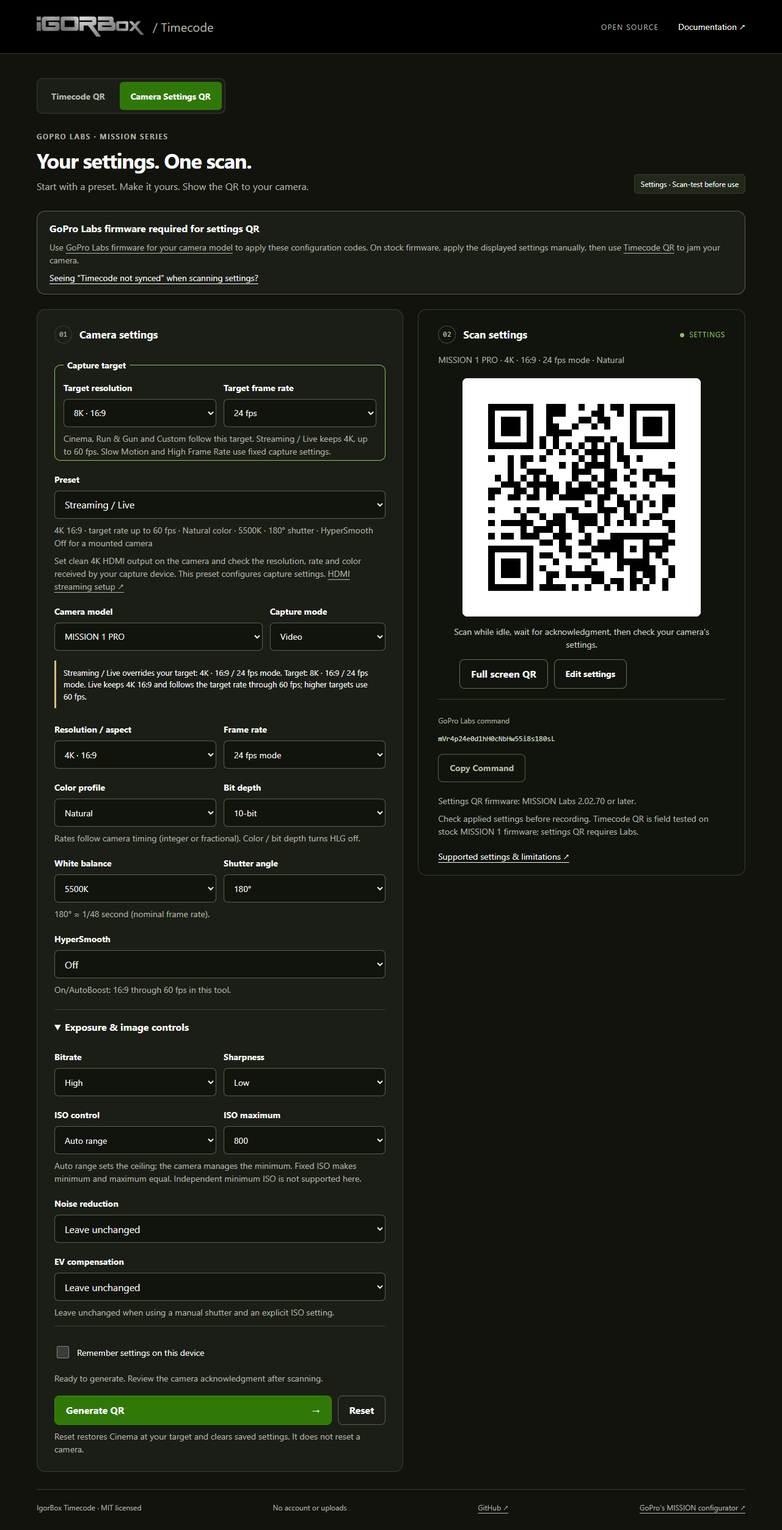
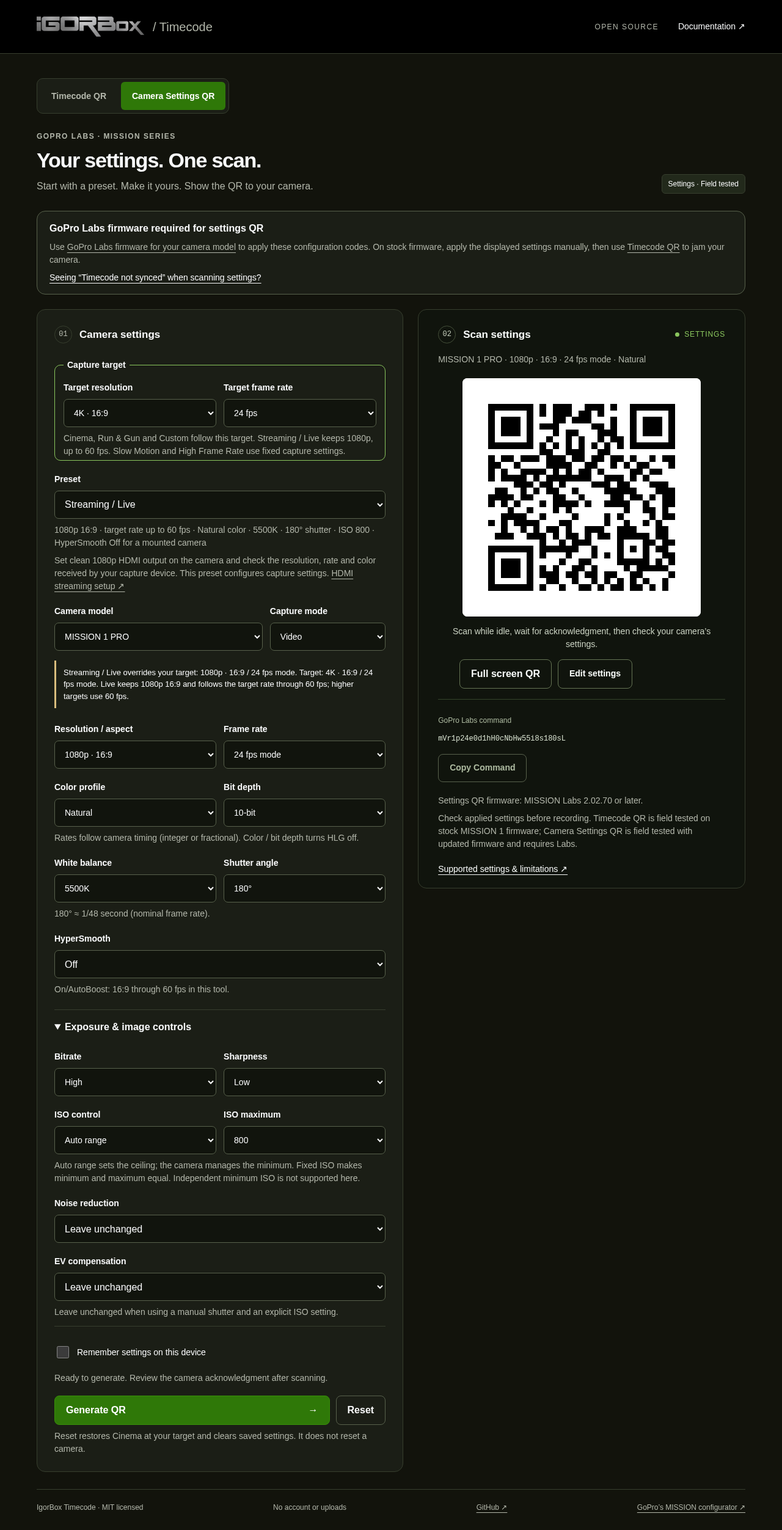
update defaults

diff --git a/public/guide.html b/public/guide.html
@@ -88,18 +88,18 @@
   <p><a href="./settings.html">Open Camera Settings QR</a> to configure a MISSION 1, MISSION 1 PRO or MISSION 1 PRO ILS. This is a separate tool: it changes capture settings, while Timecode QR sets the clock. Configure capture first, then jam timecode.</p>
   <p><strong>GoPro Labs firmware is required for settings QR.</strong> GoPro documents camera configuration QR commands as a <a href="https://gopro.com/en/us/info/gopro-labs">Labs firmware feature</a>. Use the <a href="https://gopro.github.io/labs/">download for your exact camera model</a>. On stock MISSION 1 firmware, apply the displayed capture settings manually, then use the field-tested Timecode QR to jam.</p>
   <ol>
-    <li>Set your <strong>Capture target</strong> at the top and choose your exact camera model. The default is <strong>8K 16:9 / 24 fps</strong>. Production / Cinema, Run &amp; Gun and Custom follow this target, so choosing 4K30 makes all three use 4K30.</li>
-    <li>Choose a starter preset. Streaming / Live keeps 4K and follows the target rate through 60 fps; higher targets use 60 fps. Slow Motion keeps 4K60 and High Frame Rate keeps 4K120. A visible note identifies capture overrides. Custom starts with the target and leaves other settings unchanged on-camera. All defaults use 16:9; Open Gate remains an editable option on supported models.</li>
+    <li>Set your <strong>Capture target</strong> at the top and choose your exact camera model. The default is <strong>4K 16:9 / 24 fps</strong>. Production / Cinema, Run &amp; Gun and Custom follow this target, so choosing 4K30 makes all three use 4K30.</li>
+    <li>Choose a starter preset. Streaming / Live keeps 1080p and follows the target rate through 60 fps; higher targets use 60 fps. Slow Motion keeps 4K60 and High Frame Rate keeps 4K120. A visible note identifies capture overrides. Custom starts with the target and leaves other settings unchanged on-camera. All defaults use 16:9; Open Gate remains an editable option on supported models.</li>
     <li>Edit any field. “Leave unchanged” omits it from the command. Fields stay editable after selecting a preset; your first edit changes the preset label to Custom. Unsupported resolution/rate pairs block generation.</li>
-    <li>Use Exposure &amp; image controls for ISO, bitrate, sharpness, EV and noise reduction. Cinema, Run &amp; Gun, Slow Motion and High Frame Rate use GP-Log2; Streaming / Live uses Natural color. All five configured presets use 10-bit, high recording bitrate and low sharpness. Run &amp; Gun uses auto white balance; the other configured presets use 5500K.</li>
+    <li>Use Exposure &amp; image controls for ISO, bitrate, sharpness, EV and noise reduction. Cinema, Run &amp; Gun, Slow Motion and High Frame Rate use GP-Log2; Streaming / Live uses Natural color. All five configured presets use 10-bit, high recording bitrate and low sharpness. Cinema, Run &amp; Gun and Streaming / Live use 5500K, a 180° shutter and Auto ISO up to 800.</li>
     <li>Press Generate QR, show it to an idle camera, and check the applied settings on the camera. Full screen QR enlarges the view. Copy Command copies the exact text; on browsers without clipboard access it selects the text for manual copying. Editing any field clears the old QR.</li>
   </ol>
   <h3 id="streaming-live">Streaming / Live over HDMI</h3>
-  <p>This preset starts at <strong>4K 16:9 / your target rate, up to 60 fps</strong> (24 fps with the default target). It uses Natural color for a picture ready for live use, 10-bit, HLG Off, High recording bitrate, 5500K WB, 180° shutter, Auto ISO up to 800, Low sharpness and HyperSmooth Off for a mounted camera. EV and noise reduction are left unchanged. Adjust WB and exposure for the actual lighting; select GP-Log2 if your live setup applies an appropriate LUT.</p>
+  <p>This preset starts at <strong>1080p 16:9 / your target rate, up to 60 fps</strong> (24 fps with the default target). It uses Natural color for a picture ready for live use, 10-bit, HLG Off, High recording bitrate, 5500K WB, 180° shutter, Auto ISO up to 800, Low sharpness and HyperSmooth Off for a mounted camera. EV and noise reduction are left unchanged. Adjust WB and exposure for the actual lighting; select GP-Log2 if your live setup applies an appropriate LUT.</p>
   <ol>
-    <li>Choose your intended stream frame rate as the target. Streaming / Live overrides resolution to 4K and caps its starting rate at 60 fps, with a visible note if that differs from the target. All fields remain editable.</li>
+    <li>Choose your intended stream frame rate as the target. Streaming / Live overrides resolution to 1080p and caps its starting rate at 60 fps, with a visible note if that differs from the target. All fields remain editable.</li>
     <li>Apply the capture settings via QR on Labs firmware, or manually on stock firmware. Connect the camera to your HDMI capture device using compatible hardware. GoPro specifies <a href="https://gopro.com/en/us/shop/mounts-accessories/camera-media-mod/AGFMD-001.html">up to 4K60 output for the MISSION Media Mod</a>.</li>
-    <li>Select clean video output without camera overlays and 4K output in the camera’s output controls. Confirm the received resolution, exact frame rate, color and bit depth in your capture device or streaming software. Capture settings alone do not guarantee the HDMI signal format. High bitrate controls internal recording, not the stream encoder’s bitrate.</li>
+    <li>Select clean video output without camera overlays and 1080p output in the camera’s output controls. Confirm the received resolution, exact frame rate, color and bit depth in your capture device or streaming software. Capture settings alone do not guarantee the HDMI signal format. High bitrate controls internal recording, not the stream encoder’s bitrate.</li>
     <li>Set the stream encoder’s format and bitrate, provide power suitable for the session, and check camera auto-power-off settings. Test the complete chain for the intended duration and adjust audio/video delay in the streaming setup. A timecode jam does not align HDMI feed latency.</li>
   </ol>
   <p><strong>HDMI controls remain on-camera:</strong> the <a href="https://gopro.github.io/labs/">Labs support matrix</a> does not list HDMI display-setting support for MISSION, and the <a href="https://gopro.github.io/labs/control/tech/">HDMI command reference</a> lists HERO8–13. This preset therefore sends capture settings only. It does not enable clean HDMI output, change power-off settings, set an HDMI output format, or initiate a network stream. Successful HDMI operation with this preset still needs verification on your hardware.</p>
@@ -108,7 +108,7 @@
   <p><strong>Coverage:</strong> the app supports the documented regular resolution/rate pairs through 240 fps. HyperSmooth On/AutoBoost is offered for 16:9 modes through 60 fps; other stabilization combinations are outside this tool’s verified coverage, not necessarily camera limitations. ILS users must confirm a supported lens and its camera setup before enabling HyperSmooth. Run &amp; Gun starts with stabilization off on ILS. PRO and ILS share capture-rate definitions, with this separate lens check.</p>
   <p id="ils-lenses"><strong>ILS lens compatibility:</strong> the checkbox is only for MISSION 1 PRO ILS and confirms that your interchangeable lens is supported for HyperSmooth. It does not configure a lens profile. “Rectilinear” means straight lines remain straight rather than having a fisheye projection; “prime” means a fixed focal length rather than a zoom. GoPro’s current <a href="https://investor.gopro.com/press-releases/press-release-details/2026/GoPro-Launches-MISSION-1-PRO-ILS-the-Worlds-Smallest-Most-Rugged-Compact-Cinema-Camera-with-Interchangeable-Lenses/default.aspx">ILS lens guidance, footnote 3</a> lists rectilinear MFT lenses from 6–500mm (tested up to 50mm, with performance beyond that varying) and five profiled fisheyes: Laowa 4mm f/2.8, 7Artisans 6mm f/2, 7Artisans 7.5mm f/2.8, Brightin Star 7.5mm f/2.8 and Meike 7.5mm f/2.8. Check the guidance and configure your lens on-camera before enabling stabilization.</p>
   <p><strong>Photo:</strong> switching to Photo exposes RAW output, white balance and EV only. Video controls are hidden and not emitted. Set photo resolution, shutter and ISO on the camera. Returning to Video restores the draft form and leaves the QR off.</p>
-  <p><strong>Firmware and scope:</strong> command research was checked on 11 September 2026 against GoPro’s <a href="https://gopro.github.io/labs/control/mission/">MISSION configurator</a>, <a href="https://gopro.github.io/labs/control/settings/">settings reference</a>, <a href="https://gopro.com/en/us/shop/buy-cameras/mission-1-series">model specifications</a> and <a href="https://gopro.github.io/labs/control/notes/">release notes</a>. Use MISSION Labs 2.02.70 or later, or ILS Labs 3.00.70 or later, for settings QR. The earlier successful stock-firmware shoot verified Timecode QR. On 11 September 2026, the owner also confirmed that the settings workflow works after a firmware update. The exact firmware build and individual presets tested were not supplied.</p>
+  <p><strong>Firmware and scope:</strong> command research was checked on 11 September 2026 against GoPro’s <a href="https://gopro.github.io/labs/control/mission/">MISSION configurator</a>, <a href="https://gopro.github.io/labs/control/settings/">settings reference</a>, <a href="https://gopro.com/en/us/shop/buy-cameras/mission-1-series">model specifications</a> and <a href="https://gopro.github.io/labs/control/notes/">release notes</a>. Use MISSION Labs 2.02.70 or later, or ILS Labs 3.00.70 or later, for settings QR. The earlier successful stock-firmware shoot verified Timecode QR. Camera Settings QR was field tested after a firmware update on 11 September 2026. The exact firmware build and individual presets tested were not supplied.</p>
   <h3 id="settings-timecode-error">“Timecode not synced” after a settings scan</h3>
   <p>The project owner reported this message on original GoPro firmware with no settings applied, then confirmed that a firmware update resolved the problem. The original failure is consistent with the stock timecode QR reader receiving a Labs settings command; the exact firmware error path has not been independently confirmed. A settings QR contains capture commands, not a timestamp.</p>
   <p>Check whether the camera has stock or Labs firmware. On stock firmware, set capture options manually and use Timecode QR for the jam. For configuration QR, use Labs firmware for the exact model. If the error persists on Labs, record the model, full firmware version and the exact text under “GoPro Labs command,” and compare the same settings with <a href="https://gopro.github.io/labs/control/mission/">GoPro’s MISSION configurator</a>. Check the resulting camera menus before treating any scan as successful.</p>

diff --git a/public/settings.html b/public/settings.html
@@ -40,7 +40,7 @@
   </header>
   <main>
     <nav class="tool-tabs" aria-label="QR tools"><a href="./">Timecode QR</a><a href="./settings.html" aria-current="page">Camera Settings QR</a></nav>
-    <div class="intro"><div><p class="eyebrow">GOPRO LABS · MISSION SERIES</p><h1>Your settings. One scan.</h1><p>Start with a preset. Make it yours. Show the QR to your camera.</p></div><span class="test-label">Settings · Scan-test before use</span></div>
+    <div class="intro"><div><p class="eyebrow">GOPRO LABS · MISSION SERIES</p><h1>Your settings. One scan.</h1><p>Start with a preset. Make it yours. Show the QR to your camera.</p></div><span class="test-label">Settings · Field tested</span></div>
     <aside class="settings-firmware" aria-labelledby="settings-firmware-title">
       <strong id="settings-firmware-title">GoPro Labs firmware required for settings QR</strong>
       <p>Use <a href="https://gopro.github.io/labs/" target="_blank" rel="noopener noreferrer">GoPro Labs firmware for your camera model</a> to apply these configuration codes. On stock firmware, apply the displayed settings manually, then use <a href="./">Timecode QR</a> to jam your camera.</p>
@@ -60,7 +60,7 @@
           </fieldset>
           <label for="camera-preset">Preset</label><select id="camera-preset"></select>
           <p class="hint" id="preset-description"></p>
-          <p class="hint" id="camera-live-note" hidden>Set clean 4K HDMI output on the camera and check the resolution, rate and color received by your capture device. This preset configures capture settings. <a href="./guide.html#streaming-live">HDMI streaming setup ↗</a></p>
+          <p class="hint" id="camera-live-note" hidden>Set clean 1080p HDMI output on the camera and check the resolution, rate and color received by your capture device. This preset configures capture settings. <a href="./guide.html#streaming-live">HDMI streaming setup ↗</a></p>
           <div class="settings-grid camera-context">
             <div><label for="camera-model">Camera model</label><select id="camera-model"></select></div>
             <div><label for="camera-mode">Capture mode</label><select id="camera-mode"><option value="video">Video</option><option value="photo">Photo</option></select></div>
@@ -125,7 +125,7 @@
         <div class="jam-actions"><button id="camera-fullscreen" class="secondary" type="button" disabled>Full screen QR</button><a class="secondary" href="#camera-form">Edit settings</a></div>
         <div class="payload settings-payload"><p>GoPro Labs command</p><code id="camera-command">Generate a QR to see the command.</code><button class="secondary" id="camera-copy" type="button" disabled>Copy Command</button><p id="camera-copy-status" role="status"></p></div>
         <p class="hint" id="camera-firmware-note"></p>
-        <p class="hint">Check applied settings before recording. Timecode QR is field tested on stock MISSION 1 firmware; settings QR requires Labs.</p>
+        <p class="hint">Check applied settings before recording. Timecode QR is field tested on stock MISSION 1 firmware; Camera Settings QR is field tested with updated firmware and requires Labs.</p>
         <a class="settings-doc-link" href="./guide.html#camera-settings">Supported settings &amp; limitations ↗</a>
       </section>
     </div>

diff --git a/public/settings-presets.js b/public/settings-presets.js
@@ -4,11 +4,11 @@
   else root.IgorCameraPresets = factory(root.IgorCameraCapabilities);
 })(typeof globalThis !== 'undefined' ? globalThis : this, function (C) {
   'use strict';
-  const defaultTarget = Object.freeze({ resolution: '8k', frameRate: '24' });
+  const defaultTarget = Object.freeze({ resolution: '4k', frameRate: '24' });
   const definitions = Object.freeze({
-    cinema: Object.freeze({ label: 'Production / Cinema', description: 'Your target · 180° shutter · 5500K · 10-bit GP-Log2', settings: Object.freeze({ whiteBalance: '5500', shutter: '180', isoMax: '400', stabilization: 'off' }) }),
-    run: Object.freeze({ label: 'Run & Gun', description: 'Your target · auto exposure and white balance · 10-bit GP-Log2', settings: Object.freeze({ whiteBalance: 'auto', shutter: 'auto', isoMax: '1600', stabilization: 'on' }) }),
-    live: Object.freeze({ label: 'Streaming / Live', description: '4K 16:9 · target rate up to 60 fps · Natural color · 5500K · 180° shutter · HyperSmooth Off for a mounted camera', settings: Object.freeze({ resolution: '4k', colorProfile: 'natural', whiteBalance: '5500', shutter: '180', isoMax: '800', stabilization: 'off' }) }),
+    cinema: Object.freeze({ label: 'Production / Cinema', description: 'Your target · 180° shutter · 5500K · ISO 800 · 10-bit GP-Log2', settings: Object.freeze({ whiteBalance: '5500', shutter: '180', isoMax: '800', stabilization: 'off' }) }),
+    run: Object.freeze({ label: 'Run & Gun', description: 'Your target · 180° shutter · 5500K · ISO 800 · HyperSmooth On · 10-bit GP-Log2', settings: Object.freeze({ whiteBalance: '5500', shutter: '180', isoMax: '800', stabilization: 'on' }) }),
+    live: Object.freeze({ label: 'Streaming / Live', description: '1080p 16:9 · target rate up to 60 fps · Natural color · 5500K · 180° shutter · ISO 800 · HyperSmooth Off for a mounted camera', settings: Object.freeze({ resolution: '1080', colorProfile: 'natural', whiteBalance: '5500', shutter: '180', isoMax: '800', stabilization: 'off' }) }),
     slow: Object.freeze({ label: 'Slow Motion', description: '4K60 with 180° shutter (about 1/120 second).', settings: Object.freeze({ resolution: '4k', frameRate: '60', whiteBalance: '5500', shutter: '180', isoMax: '800', stabilization: 'off' }) }),
     high: Object.freeze({ label: 'High Frame Rate', description: '4K120 with 180° shutter (about 1/240 second).', settings: Object.freeze({ resolution: '4k', frameRate: '120', whiteBalance: '5500', shutter: '180', isoMax: '1600', stabilization: 'off' }) }),
     custom: Object.freeze({ label: 'Custom', description: 'Start with your target; other settings are unchanged.', settings: Object.freeze({}) })

diff --git a/public/settings-app.js b/public/settings-app.js
@@ -50,7 +50,7 @@
     for (const item of $('target-frameRate').options) item.disabled = !C.models[model].modes[target.resolution]?.includes(item.value);
     const available = C.models[model].modes[target.resolution]?.includes(target.frameRate);
     $('camera-target-status').textContent = photo ? 'Video target saved for when you return to Video mode.' : available
-      ? 'Cinema, Run & Gun and Custom follow this target. Streaming / Live keeps 4K, up to 60 fps. Slow Motion and High Frame Rate use fixed capture settings.'
+      ? 'Cinema, Run & Gun and Custom follow this target. Streaming / Live keeps 1080p, up to 60 fps. Slow Motion and High Frame Rate use fixed capture settings.'
       : 'This target is unavailable on ' + C.models[model].label + '. Choose a supported pair, or review the preset override below.';
     $('camera-target-status').classList.toggle('error', !photo && !available);
     const differs = settings.resolution !== target.resolution || settings.frameRate !== target.frameRate;
@@ -58,7 +58,7 @@
     let note = differs
       ? (special ? P.definitions[preset].label + ' overrides your target: ' : 'Custom override: ') + captureLabel(settings) + '. Target: ' + captureLabel(target) + '.'
       : 'Matches your target: ' + captureLabel(target) + '.';
-    if (preset === 'live') note += ' Live keeps 4K 16:9 and follows the target rate through 60 fps; higher targets use 60 fps.';
+    if (preset === 'live') note += ' Live keeps 1080p 16:9 and follows the target rate through 60 fps; higher targets use 60 fps.';
     else if (special) note += ' This preset keeps its capture settings when the target changes.';
     if (preset === 'run' && settings.stabilization === 'off') note += C.models[model].ils
       ? ' HyperSmooth starts Off on ILS; confirm a supported lens before enabling it.'

diff --git a/docs/CAMERA_SETTINGS.md b/docs/CAMERA_SETTINGS.md
@@ -1,12 +1,12 @@
 # Camera Settings QR
 
-Research date: **2026-09-11**. This extension adds a second static page using the existing QR encoder and visual style. Timecode's clock/reference logic is unchanged. The earlier shoot result applies to Timecode QR; a subsequent owner report confirms Camera Settings QR works after a firmware update.
+Research date: **2026-09-11**. This extension adds a second static page using the existing QR encoder and visual style. Timecode's clock/reference logic is unchanged. The earlier shoot result applies to Timecode QR; Camera Settings QR was subsequently field tested after a firmware update.
 
 **Firmware requirement:** settings QR uses GoPro Labs firmware for the selected camera. GoPro’s [Labs overview](https://gopro.com/en/us/info/gopro-labs) explicitly describes special firmware for configuration QR, and its [control index](https://gopro.github.io/labs/control/) lists MISSION configuration under Labs-enabled cameras. The project’s successful stock-firmware timecode tests do not establish support for these configuration commands.
 
 **Hardware report, 2026-09-11:** the project owner scanned a configuration QR on original GoPro firmware and saw “Timecode not synced”; no settings changed. The exact command and numeric firmware version were not provided. The likely explanation is the stock timecode reader rejecting a Labs settings payload, but the exact firmware error path has not been independently confirmed. The UI now states the Labs requirement before the form and links to troubleshooting. On stock firmware, set capture options manually and use Timecode QR to jam. Do not interpret this failed scan as successful camera-settings validation.
 
-**Follow-up, 2026-09-11:** the owner reported “I updated the firmware and everything works perfectly.” This records successful use of the settings workflow on the owner's MISSION 1 setup after updating firmware. The exact build, individual presets and HDMI capture-chain results were not supplied. See the [hardware report](HARDWARE_VALIDATION.md).
+**Follow-up, 2026-09-11:** the owner reported “I updated the firmware and everything works perfectly.” This records field-tested use of the settings workflow on the owner's MISSION 1 setup after updating firmware. The exact build, individual presets and HDMI capture-chain results were not supplied. See the [hardware report](HARDWARE_VALIDATION.md).
 
 ## Source decisions
 
@@ -46,36 +46,36 @@ Stabilization coverage is intentionally narrower than the camera's possible feat
 
 ## Starter presets
 
-The global **Capture target** defaults to **8K 16:9 / 24 fps**. Cinema, Run & Gun and Custom inherit it; Streaming / Live keeps 4K and follows the rate up to 60 fps; Slow Motion and High Frame Rate have fixed overrides. Every preset defaults to 16:9 and resolves into a fresh, editable form. Open Gate remains available as a target or manual choice. Editing any field changes the selector to Custom. The five configured video presets all use 10-bit, High bitrate and Low sharpness. Streaming / Live uses Natural color; the other four use GP-Log2. Noise reduction and EV are left unchanged. ISO is an auto ceiling, not an asserted 100 minimum.
+The global **Capture target** defaults to **4K 16:9 / 24 fps**. Cinema, Run & Gun and Custom inherit it; Streaming / Live keeps 1080p and follows the rate up to 60 fps; Slow Motion and High Frame Rate have fixed overrides. Every preset defaults to 16:9 and resolves into a fresh, editable form. Open Gate remains available as a target or manual choice. Editing any field changes the selector to Custom. The five configured video presets all use 10-bit, High bitrate and Low sharpness. Streaming / Live uses Natural color; the other four use GP-Log2. Noise reduction and EV are left unchanged. ISO is an auto ceiling, not an asserted 100 minimum.
 
 | Preset | Resolution / rate mode | Shutter | WB | ISO ceiling | HyperSmooth |
 |---|---|---|---|---|---|
-| Production / Cinema | Target (default 8K 16:9 / 24) | 180° | 5500K | 400 | Off |
-| Run & Gun | Target (default 8K 16:9 / 24) | Auto | Auto | 1600 | On; Off initially on ILS or outside verified coverage |
-| Streaming / Live | 4K 16:9 / target rate, capped at 60 (default 24) | 180° | 5500K | 800 | Off |
+| Production / Cinema | Target (default 4K 16:9 / 24) | 180° | 5500K | 800 | Off |
+| Run & Gun | Target (default 4K 16:9 / 24) | 180° | 5500K | 800 | On; Off initially on ILS or outside verified coverage |
+| Streaming / Live | 1080p 16:9 / target rate, capped at 60 (default 24) | 180° | 5500K | 800 | Off |
 | Slow Motion | 4K 16:9 / 60 | 180° | 5500K | 800 | Off |
 | High Frame Rate | 4K 16:9 / 120 | 180° | 5500K | 1600 | Off |
-| Custom | Target (default 8K 16:9 / 24) | Unchanged | Unchanged | Unchanged | Unchanged |
+| Custom | Target (default 4K 16:9 / 24) | Unchanged | Unchanged | Unchanged | Unchanged |
 
 Changing the target updates the active normal preset. In Custom it changes only resolution and frame rate, preserving other edits. Slow Motion and High Frame Rate keep their capture overrides while selected; once edited into Custom, subsequent target changes update their resolution and rate too. The UI compares the actual capture settings with the target and explicitly explains differences. A 4K30 target therefore produces 4K30 Cinema, Run & Gun and Custom commands, while the two special presets remain 4K60 / 4K120. The angle-based shutter follows the resulting frame rate automatically.
 
-Streaming / Live always starts in 4K 16:9. A target rate of 24, 25, 30, 50 or 60 is inherited; 100/120/200/240 targets explicitly resolve to 60. That override is visible, persists with the selected preset, and never changes the global target itself. Once edited into Custom, the normal Custom target behavior applies. Natural is an application default for live use without a log LUT, not a GoPro-mandated setting. Users can choose GP-Log2 for a live LUT pipeline. The 10-bit and High bitrate selections are camera recording controls; HDMI format, color and bit depth must be verified at the capture device. The preset does not configure an HDMI link or encoder, start a stream, disable sleep, or change audio. See the [HDMI streaming workflow](../public/guide.html#streaming-live).
+Streaming / Live always starts in 1080p 16:9. A target rate of 24, 25, 30, 50 or 60 is inherited; 100/120/200/240 targets explicitly resolve to 60. That override is visible, persists with the selected preset, and never changes the global target itself. Once edited into Custom, the normal Custom target behavior applies. Natural is an application default for live use without a log LUT, not a GoPro-mandated setting. Users can choose GP-Log2 for a live LUT pipeline. The 10-bit and High bitrate selections are camera recording controls; HDMI format, color and bit depth must be verified at the capture device. The preset does not configure an HDMI link or encoder, start a stream, disable sleep, or change audio. See the [HDMI streaming workflow](../public/guide.html#streaming-live).
 
 Unsupported capture pairs remain visible and block command generation instead of silently changing the target. A special preset can still generate its supported override when the target is unavailable on the selected model; both the unavailable target and actual override are shown. Run & Gun switches HyperSmooth Off when its target falls outside the tool’s verified stabilization coverage, with an explanation. Custom stabilization choices are validated without being changed automatically.
 
 Photo mode emits none of the target's video settings. During a session the video draft retains its preset behavior, and target changes apply to that draft when appropriate. Returning from Photo restores that draft. If the page reloads or the camera model changes while in Photo, there is no video draft; returning to Video starts from Custom at the current target.
 
-Exact commands for **MISSION 1 PRO**, with the default 8K24 target:
+Exact commands for **MISSION 1 PRO**, with the default 4K24 target:
 
 ```text
 Production / Cinema
-mVr8p24e0d1hH0cLbHw55i4s180sL
+mVr4p24e0d1hH0cLbHw55i8s180sL
 
 Run & Gun
-mVr8p24e1d1hH0cLbHwAi16s0sL
+mVr4p24e1d1hH0cLbHw55i8s180sL
 
 Streaming / Live
-mVr4p24e0d1hH0cNbHw55i8s180sL
+mVr1p24e0d1hH0cNbHw55i8s180sL
 
 Slow Motion
 mVr4p60e0d1hH0cLbHw55i8s180sL
@@ -84,10 +84,10 @@ High Frame Rate
 mVr4p120e0d1hH0cLbHw55i16s180sL
 
 Custom
-mVr8p24
+mVr4p24
 ```
 
-Cinema uses the same 8K 16:9 / 24 command on all three supported models. ILS Run & Gun substitutes `e0` for `e1` until the user chooses stabilization and confirms a suitable lens. Photo with RAW, 5500K and +0.5 EV produces `mPrw55x.5`.
+Cinema uses the same 4K 16:9 / 24 command on all three supported models. ILS Run & Gun substitutes `e0` for `e1` until the user chooses stabilization and confirms a suitable lens. Photo with RAW, 5500K and +0.5 EV produces `mPrw55x.5`.
 
 **24 does not promise 24.000:** `p24` can select 23.976 with the camera's default broadcast timing. The 180° shutter hint is calculated from the nominal rate; at 23.976 it is approximately 1/47.952 second. Configure exact integer timing separately and check clip metadata. These commands do not change timecode, ALLI, 24HZ or TCAL.
 

diff --git a/README.md b/README.md
@@ -14,7 +14,7 @@ The app and documentation use IgorBox's forest green and warm charcoal palette, 
 
 **Timecode status: v0.1.0 · Field tested on a real MISSION 1 shoot.** On 2026-09-11, the project owner confirmed that the utility was used for a shoot and “worked perfectly.” Earlier testing also confirmed QR acceptance on a new, out-of-the-box MISSION 1 with stock firmware; **GoPro Labs installation is not required for that timecode workflow**. See the [field report](docs/HARDWARE_VALIDATION.md) for the reported results and a procedure for measuring offset and drift with your own setup.
 
-**Camera Settings QR: confirmed working after a firmware update.** On 2026-09-11, following a failed settings scan on original firmware, the owner reported: “I updated the firmware and everything works perfectly.” See the [hardware report](docs/HARDWARE_VALIDATION.md) for the recorded scope; the exact firmware build and presets tested were not supplied.
+**Camera Settings QR: field tested after a firmware update.** On 2026-09-11, following a failed settings scan on original firmware, the owner reported: “I updated the firmware and everything works perfectly.” See the [hardware report](docs/HARDWARE_VALIDATION.md) for the recorded scope; the exact firmware build and presets tested were not supplied.
 
 The app uses the viewing device's clock or a manually matched reference; it does not receive LTC or automatically follow an external source. Protocol documentation was verified on 2026-09-09.
 
@@ -41,19 +41,19 @@ Use the **Timecode QR** tab for the clock workflow below. Use **Camera Settings 
 
 **Requires GoPro Labs firmware for your camera model.** GoPro documents configuration QR commands as a [Labs firmware feature](https://gopro.com/en/us/info/gopro-labs). The successful stock-firmware timecode workflow does not enable these settings commands. With stock firmware, use the displayed values as a manual setup reference, then jam with Timecode QR. [Firmware downloads](https://gopro.github.io/labs/).
 
-[Open Camera Settings QR](https://timecode.igorbox.com/settings.html). Set your **Capture target** at the top (default **8K 16:9 / 24 fps**), choose MISSION 1, MISSION 1 PRO or MISSION 1 PRO ILS, then pick a preset and edit any field. Generate displays a large static QR and the exact command. Copy Command, Reset and fullscreen are included; changing settings clears the previous QR. Optional Remember settings stores the target and form locally and always restores with the QR off.
+[Open Camera Settings QR](https://timecode.igorbox.com/settings.html). Set your **Capture target** at the top (default **4K 16:9 / 24 fps**), choose MISSION 1, MISSION 1 PRO or MISSION 1 PRO ILS, then pick a preset and edit any field. Generate displays a large static QR and the exact command. Copy Command, Reset and fullscreen are included; changing settings clears the previous QR. Optional Remember settings stores the target and form locally and always restores with the QR off.
 
-**Production / Cinema**, **Run & Gun** and **Custom** follow the target: choose 4K30 and all three use 4K30; leave the default and they use 8K24. **Slow Motion** uses 4K60 and **High Frame Rate** uses 4K120, with a visible note whenever they override the target. All defaults use 16:9. Cinema, Run & Gun, Slow Motion and High Frame Rate use 10-bit GP-Log2, High bitrate and Low sharpness; choosing Custom starts with just the target and leaves other settings unchanged on-camera. Fields remain editable, including Open Gate where supported.
+**Production / Cinema**, **Run & Gun** and **Custom** follow the target: choose 4K30 and all three use 4K30; leave the default and they use 4K24. Cinema defaults to 5500K, a 180° shutter, ISO 800 and HyperSmooth Off. Run & Gun uses the same exposure defaults with HyperSmooth On where supported. **Slow Motion** uses 4K60 and **High Frame Rate** uses 4K120, with a visible note whenever they override the target. All defaults use 16:9. Cinema, Run & Gun, Slow Motion and High Frame Rate use 10-bit GP-Log2, High bitrate and Low sharpness; choosing Custom starts with just the target and leaves other settings unchanged on-camera. Fields remain editable, including Open Gate where supported.
 
-**Streaming / Live** prepares a mounted camera for HDMI capture: **4K 16:9**, the target rate through 60 fps (24 by default), **Natural color**, 10-bit, HLG Off, High recording bitrate, 5500K WB, 180° shutter, Auto ISO up to 800, Low sharpness and HyperSmooth Off. Targets above 60 fps use an explicit 60 fps preset override. Color stays editable for a live LUT workflow. [Preview the preset](docs/images/streaming-live.png).
+**Streaming / Live** prepares a mounted camera for HDMI capture: **1080p 16:9**, the target rate through 60 fps (24 by default), **Natural color**, 10-bit, HLG Off, High recording bitrate, 5500K WB, 180° shutter, Auto ISO up to 800, Low sharpness and HyperSmooth Off. Targets above 60 fps use an explicit 60 fps preset override. Color stays editable for a live LUT workflow. [Preview the preset](docs/images/streaming-live.png).
 
-Select clean 4K HDMI output on-camera and verify the actual signal received by your capture device. The preset sets camera capture options; it does not configure HDMI output, negotiate its rate/bit depth, or start a network stream. GoPro specifies [up to 4K60 output for the MISSION Media Mod](https://gopro.com/en/us/shop/mounts-accessories/camera-media-mod/AGFMD-001.html), while Labs HDMI display commands are not documented for MISSION. [HDMI streaming setup](public/guide.html#streaming-live).
+Select clean 1080p HDMI output on-camera and verify the actual signal received by your capture device. The preset sets camera capture options; it does not configure HDMI output, negotiate its rate/bit depth, or start a network stream. GoPro specifies [up to 4K60 output for the MISSION Media Mod](https://gopro.com/en/us/shop/mounts-accessories/camera-media-mod/AGFMD-001.html), while Labs HDMI display commands are not documented for MISSION. [HDMI streaming setup](public/guide.html#streaming-live).
 
 Changing the target in Custom replaces resolution and frame rate while preserving other edits. Manual capture overrides are shown against the target. Unsupported resolution/rate pairs block generation instead of silently lowering the rate or resolution. Reset restores Cinema at the current target and clears the remembered form.
 
 [Preview the Camera Settings QR screen](docs/images/camera-settings.png).
 
-Supported video controls include resolution/aspect, rate modes through 240, depth, color, Standard/High bitrate, shutter angle, ISO ceiling or fixed ISO, discrete WB, sharpness, EV, HyperSmooth and denoise. Photo offers mode, RAW, WB and EV. Compatibility validation checks the model, resolution/rate pairs, GP-Log2 depth, ISO/shutter/EV interactions and ILS lens requirements. The settings tool has documented command support, software/browser tests and an owner report of successful camera use after a firmware update.
+Supported video controls include resolution/aspect, rate modes through 240, depth, color, Standard/High bitrate, shutter angle, ISO ceiling or fixed ISO, discrete WB, sharpness, EV, HyperSmooth and denoise. Photo offers mode, RAW, WB and EV. Compatibility validation checks the model, resolution/rate pairs, GP-Log2 depth, ISO/shutter/EV interactions and ILS lens requirements. The settings tool has documented command support, software/browser tests and field-tested camera use after a firmware update.
 
 **Key differences from camera-menu shorthand:** 24/30/60 mode labels follow existing camera timing and may be fractional. Shutter uses documented angles, not direct speed extensions. WB includes 5500K rather than an invented 5600K command. Independent ISO minimum, Max/custom Mbps and unverified stabilization combinations are omitted. Settings QR requires model-specific Labs firmware; Timecode QR works on stock MISSION 1 firmware as field tested.
 

diff --git a/docs/VALIDATION.md b/docs/VALIDATION.md
@@ -14,19 +14,19 @@ Three regression tests reproduced the failure before the fix and passed afterwar
 
 ## Camera Settings QR extension — 2026-09-11
 
-- A configuration QR scan on original GoPro firmware returned “Timecode not synced” and applied no settings, as confirmed by the project owner. The settings page, README and guide state the GoPro Labs firmware requirement explicitly and provide a manual-settings workflow for stock firmware. The owner subsequently reported “I updated the firmware and everything works perfectly,” confirming successful use after the update. Exact firmware and per-preset results were not supplied; see the [hardware report](HARDWARE_VALIDATION.md).
+- A configuration QR scan on original GoPro firmware returned “Timecode not synced” and applied no settings, as confirmed by the project owner. The settings page, README and guide state the GoPro Labs firmware requirement explicitly and provide a manual-settings workflow for stock firmware. The owner subsequently reported “I updated the firmware and everything works perfectly,” establishing field-tested use after the update. Exact firmware and per-preset results were not supplied; see the [hardware report](HARDWARE_VALIDATION.md).
 
-- Capture target defaults to 8K 16:9 / 24 fps. Cinema, Run & Gun and Custom inherit it on all three models; Slow Motion keeps 4K60 and High Frame Rate keeps 4K120 with visible override feedback. All supported model/target combinations were exercised for the three target-following presets. The documentation screenshot was refreshed. ILS lens confirmation follows GoPro’s current supported-lens guidance, including its specifically profiled fisheyes.
+- Capture target defaults to 4K 16:9 / 24 fps. Cinema, Run & Gun and Custom inherit it on all three models. Cinema and Run & Gun default to 5500K, a 180° shutter and Auto ISO up to 800, with HyperSmooth Off and On respectively. Slow Motion keeps 4K60 and High Frame Rate keeps 4K120 with visible override feedback. All supported model/target combinations were exercised for the three target-following presets. ILS lens confirmation follows GoPro’s current supported-lens guidance, including its specifically profiled fisheyes.
 
-- Streaming / Live defaults to 4K 16:9, target rate up to 60 fps, Natural color, 10-bit, 5500K, 180° shutter, Auto ISO up to 800 and stabilization Off. All three models and every target rate were exercised, including explicit 60 fps overrides for higher targets. Browser checks cover persistence, Photo/Video transitions, editable color, QR invalidation and desktop/mobile layout. HDMI setup remains manual; successful HDMI capture has not been verified on hardware. The source references and setup steps are in the guide.
+- Streaming / Live defaults to 1080p 16:9, target rate up to 60 fps, Natural color, 10-bit, 5500K, 180° shutter, Auto ISO up to 800 and stabilization Off. All three models and every target rate were exercised, including explicit 60 fps overrides for higher targets. Browser checks cover persistence, Photo/Video transitions, editable color, QR invalidation and desktop/mobile layout. HDMI setup remains manual; successful HDMI capture has not been verified on hardware. The source references and setup steps are in the guide.
 
-- All **42** Node tests passed: 27 timecode tests and 15 settings tests. Settings checks cover explicit preset command fixtures, target inheritance and overrides, model/resolution/rate limits, GP-Log2 depth, ISO/shutter/EV rules, ILS lens confirmation, Photo isolation, per-field command changes, versioned state migration, malformed stored state, command injection and QR quiet zones.
+- All **46** Node tests passed: 31 timecode/lifecycle/QR tests and 15 settings tests. Settings checks cover explicit preset command fixtures, target inheritance and overrides, model/resolution/rate limits, GP-Log2 depth, ISO/shutter/EV rules, ILS lens confirmation, Photo isolation, per-field command changes, versioned state migration, malformed stored state, command injection and QR quiet zones.
 - Static validation and build passed for all three pages, including settings scripts, navigation/assets, Open Graph metadata and unchanged vendored encoder checksum.
 - Playwright checks passed using installed Edge in headless mode at 1280, 390 and 320 pixels. They exercised every preset, shared targets and special overrides, custom edits, QR invalidation, incompatible target/model changes, Photo/Video target transitions, opt-in storage/reload/reset and legacy migration, ILS confirmation, native fullscreen and the CSS fallback, clipboard API handling with a test sink and manual-copy fallback, and navigation back to a live timecode QR. No page errors or horizontal overflow were observed. Desktop and mobile captures were visually inspected. This is not a physical iPad/Safari test.
 - An independent jsQR decoder read **80** settings raster fixtures: six presets on three models, a longer advanced command and a Photo command, each at native size and 390, 280 and 220 pixels. All decoded strings matched the generated command.
 - No new application or build dependency was added. `scripts/check-browser.cjs` is optional and uses a separate Playwright tooling environment.
 
-These checks verify software output. Camera Settings QR also has an owner report of successful use after a firmware update; the earlier production-shoot report applies to Timecode QR. See [camera-settings research and omissions](CAMERA_SETTINGS.md) for the documented scope.
+These checks verify software output. Camera Settings QR is also field tested after a firmware update; the earlier production-shoot report applies to Timecode QR. See [camera-settings research and omissions](CAMERA_SETTINGS.md) for the documented scope.
 
 ## Original timecode release
 

diff --git a/docs/HARDWARE_VALIDATION.md b/docs/HARDWARE_VALIDATION.md
@@ -2,7 +2,7 @@
 
 **Timecode QR is field tested on a real MISSION 1 shoot.** The project owner confirmed successful production use on 2026-09-11.
 
-**Camera Settings QR is owner-confirmed working after a firmware update.** The follow-up report was received on 2026-09-11.
+**Camera Settings QR is field tested after a firmware update.** The follow-up report was received on 2026-09-11.
 
 ## Reported results
 
